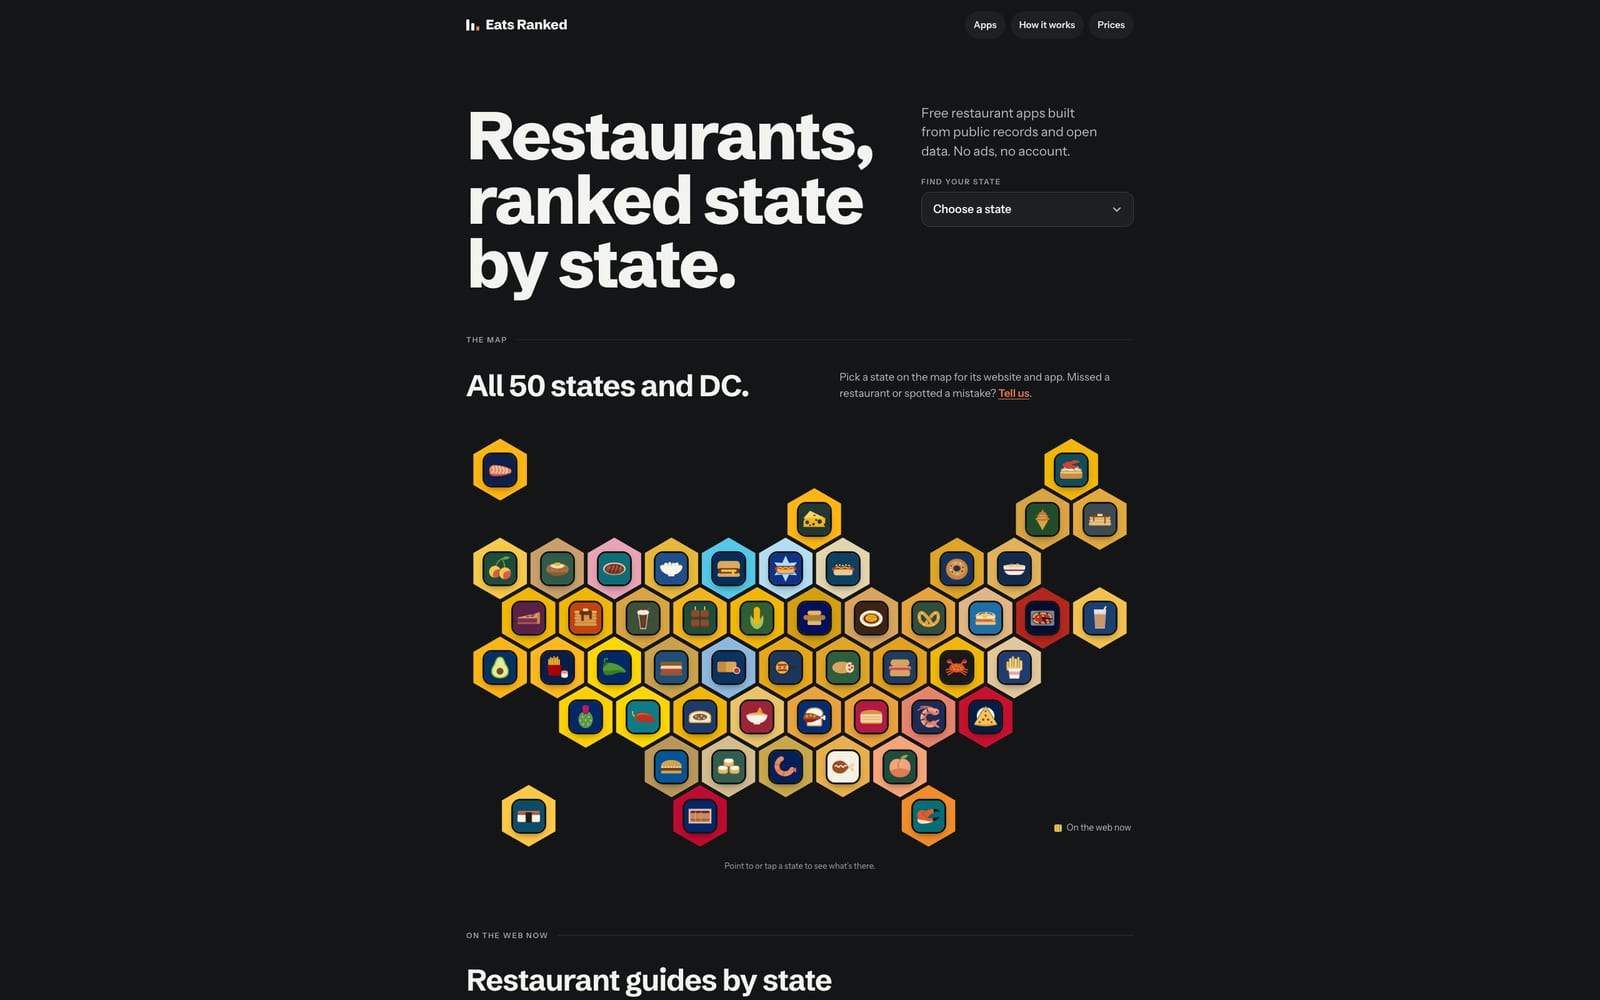
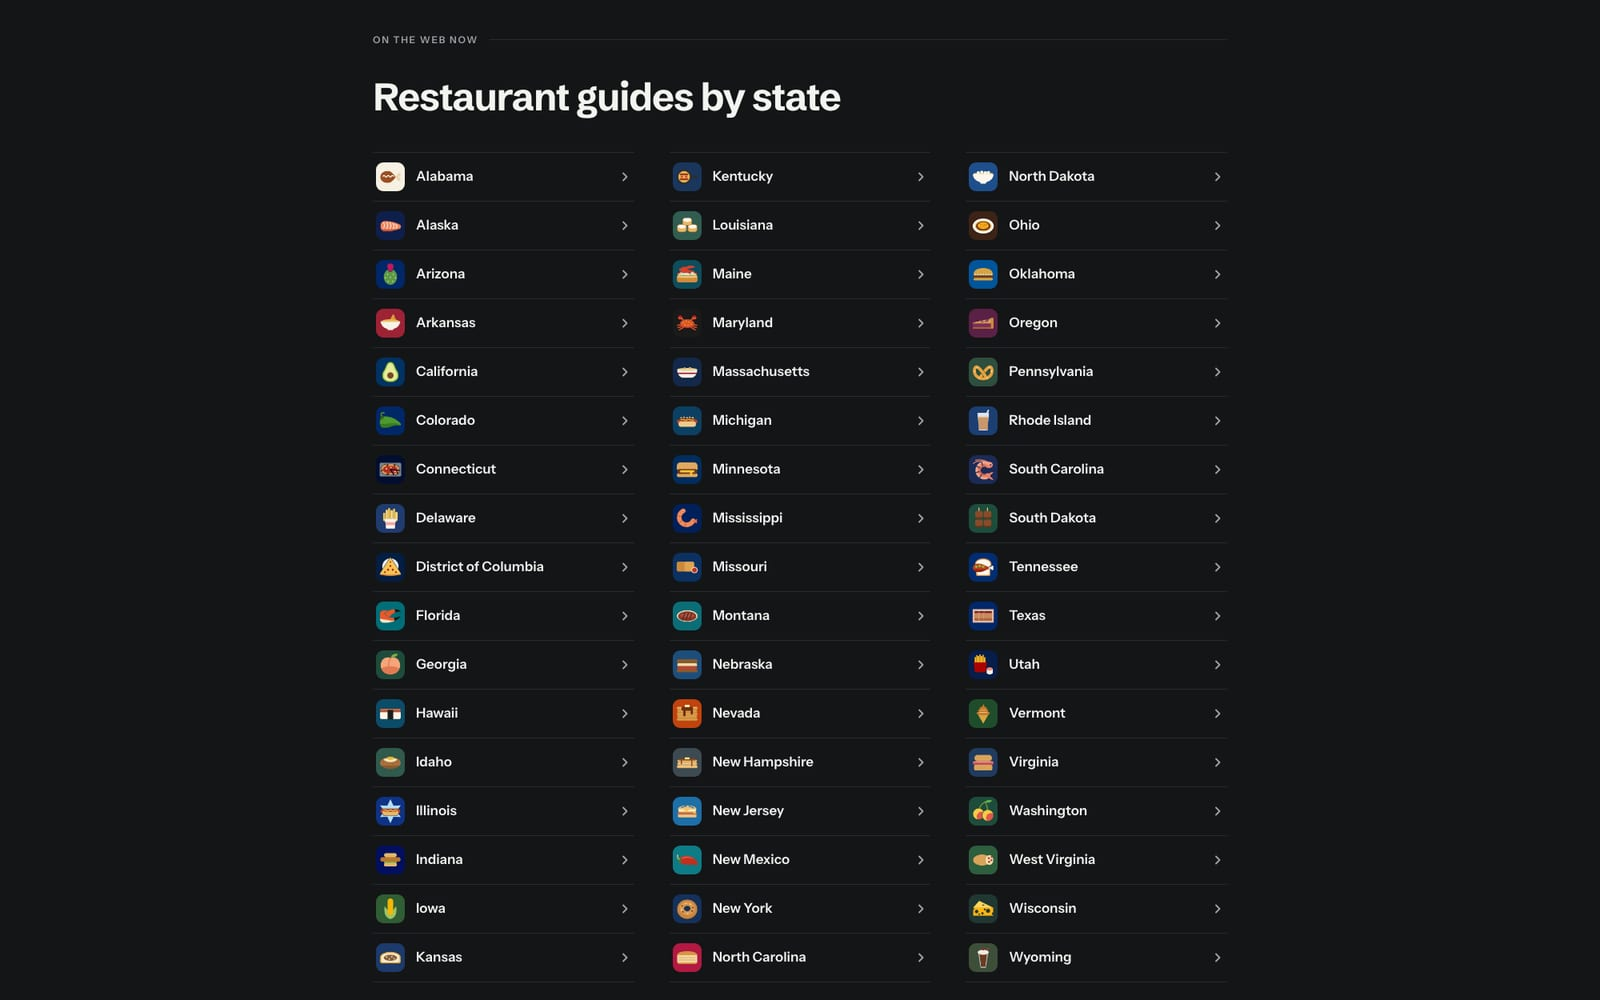
Eats Ranked story: the map in the hero, the guide list below it (#146)
The hero laptop showed the A-to-Z list, which reads as rows of small
text at that size. It now shows a close-up of the eatsranked.com map
under "All 50 states and DC."

The browser-window shot under the hero already showed the map, so it
now shows the A-to-Z list (light and dark), captured larger than before
so every guide from Alabama to Wyoming is readable. Its caption and the
hero's alt text describe the new images.

eatsranked-guides.jpg is no longer used and is removed. All three
images were captured from the live site and re-encoded with sharp, so
they carry no metadata.

diff --git a/src/data/showcase.ts b/src/data/showcase.ts
@@ -108,14 +108,14 @@ export const projects: Project[] = [
       title: 'Where to eat, from the public record.',
       sub: 'Eats Ranked is a family of free restaurant guides, one per state, built from public records, open map data and cited public sources. Each state gets its own iPhone and iPad app, a website and a web version, with local favorites checked one place at a time, from Wisconsin fish fries to New Haven apizza. All 50 states and DC are live on the web, and Chicago Restaurants: Ranked is the first app on the App Store.',
       screen: 'image',
-      image: '/showcase/eatsranked-guides.jpg',
+      image: '/showcase/eatsranked-map.jpg',
       frame: 'laptop',
-      alt: 'eatsranked.com, Restaurant guides by state: an A-to-Z list of all 50 states and the District of Columbia in three columns, from Alabama to Wyoming, each row with its app’s icon',
+      alt: 'eatsranked.com, the map: “All 50 states and DC.” above a hex-tile map of the United States, in which every state and the District of Columbia shows its guide’s app icon',
     },
     siteShot: {
       desktop: '/showcase/eatsranked-site.jpg',
       desktopDark: '/showcase/eatsranked-site-dark.jpg',
-      caption: 'eatsranked.com: one static page generated from a single data file of states and prices. It opens with a state picker and a map of all 50 states and DC; picking a state shows its website and app. Further down are an A-to-Z list of the guides, each row opening that state’s card, and a restaurant-prices section built from Bureau of Labor Statistics data. No cookies, no analytics, no requests to other sites.',
+      caption: 'eatsranked.com: one static page generated from a single data file of states and prices. It opens with a state picker and the map of all 50 states and DC; picking a state shows its website and app. Further down are this A-to-Z list of the guides, where each row opens that state’s card, and a restaurant-prices section built from Bureau of Labor Statistics data. No cookies, no analytics, no requests to other sites.',
       url: 'https://eatsranked.com',
     },
     features: [
